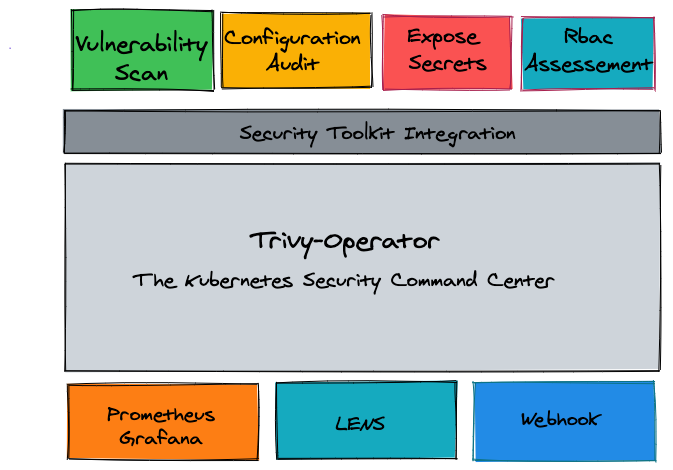
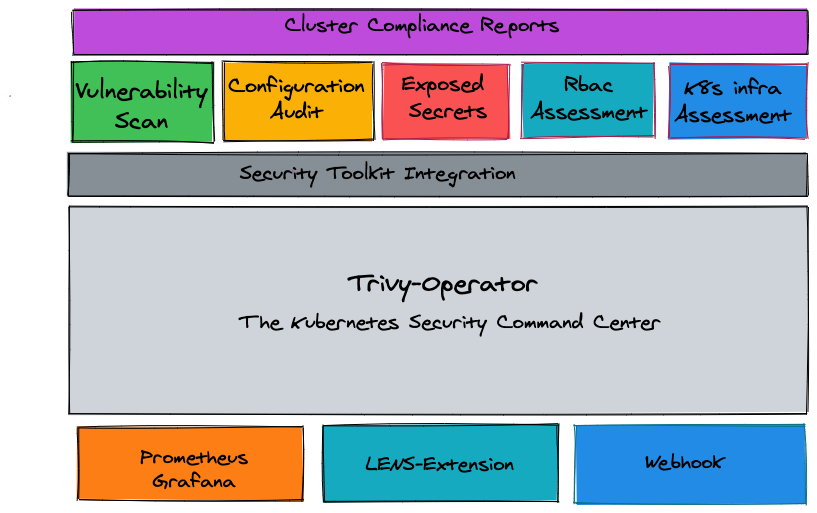
docs: compliance report (#781)

diff --git a/README.md b/README.md
@@ -31,6 +31,8 @@ The Trivy operator automatically updates security reports in response to workloa
 - ConfigAudit Scans: Automated configuration audits for Kubernetes resources with predefined rules or custom Open Policy Agent (OPA) policies.
 - Exposed Secret Scans: Automated secret scans which find and detail the location of exposed Secrets within your cluster.
 - RBAC scans: Role Based Access Control scans provide detailed information on the access rights of the different resources installed.
+- K8s core component infra assessment scan Kubernetes infra core components (etcd,apiserver,scheduler,controller-manager and etc) setting and configuration.
+- Compliance reports NSA, CISA Kubernetes Hardening Guidance v1.1 cybersecurity technical report is produced.  
 
 <p align="center">
 <img src="docs/images/trivy-operator-overview.png" alt="Trivy-operator Overview"/>
